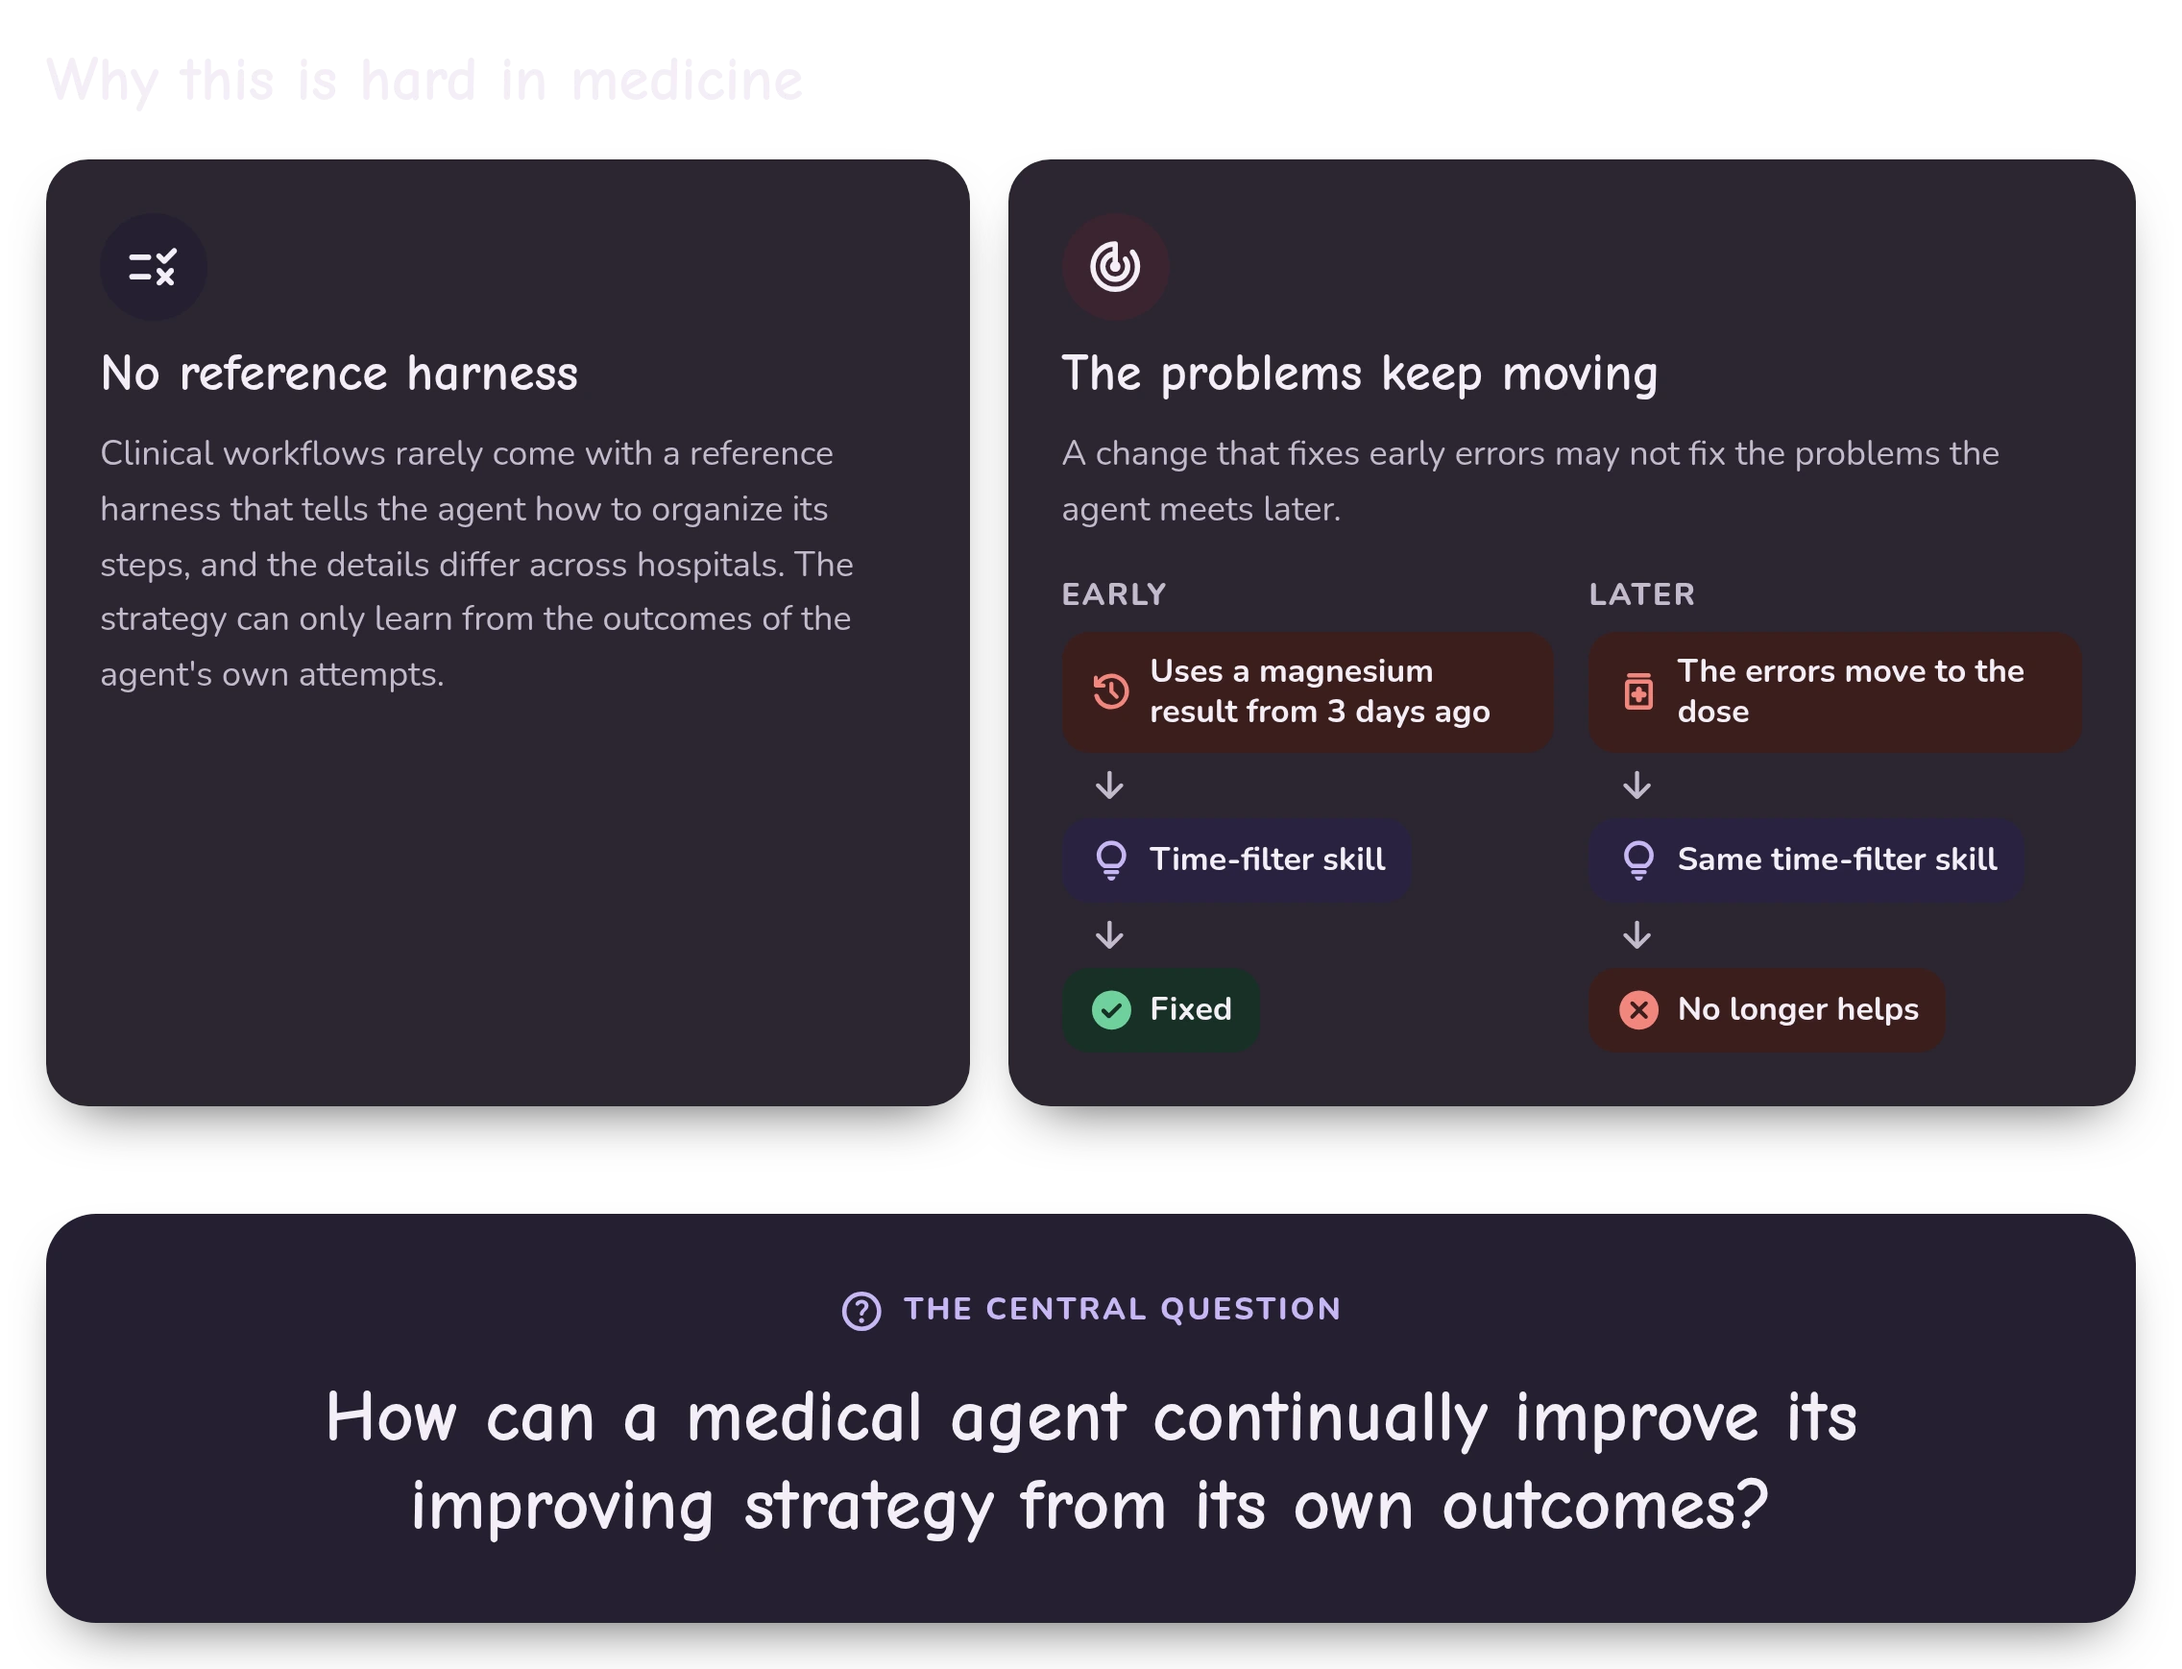
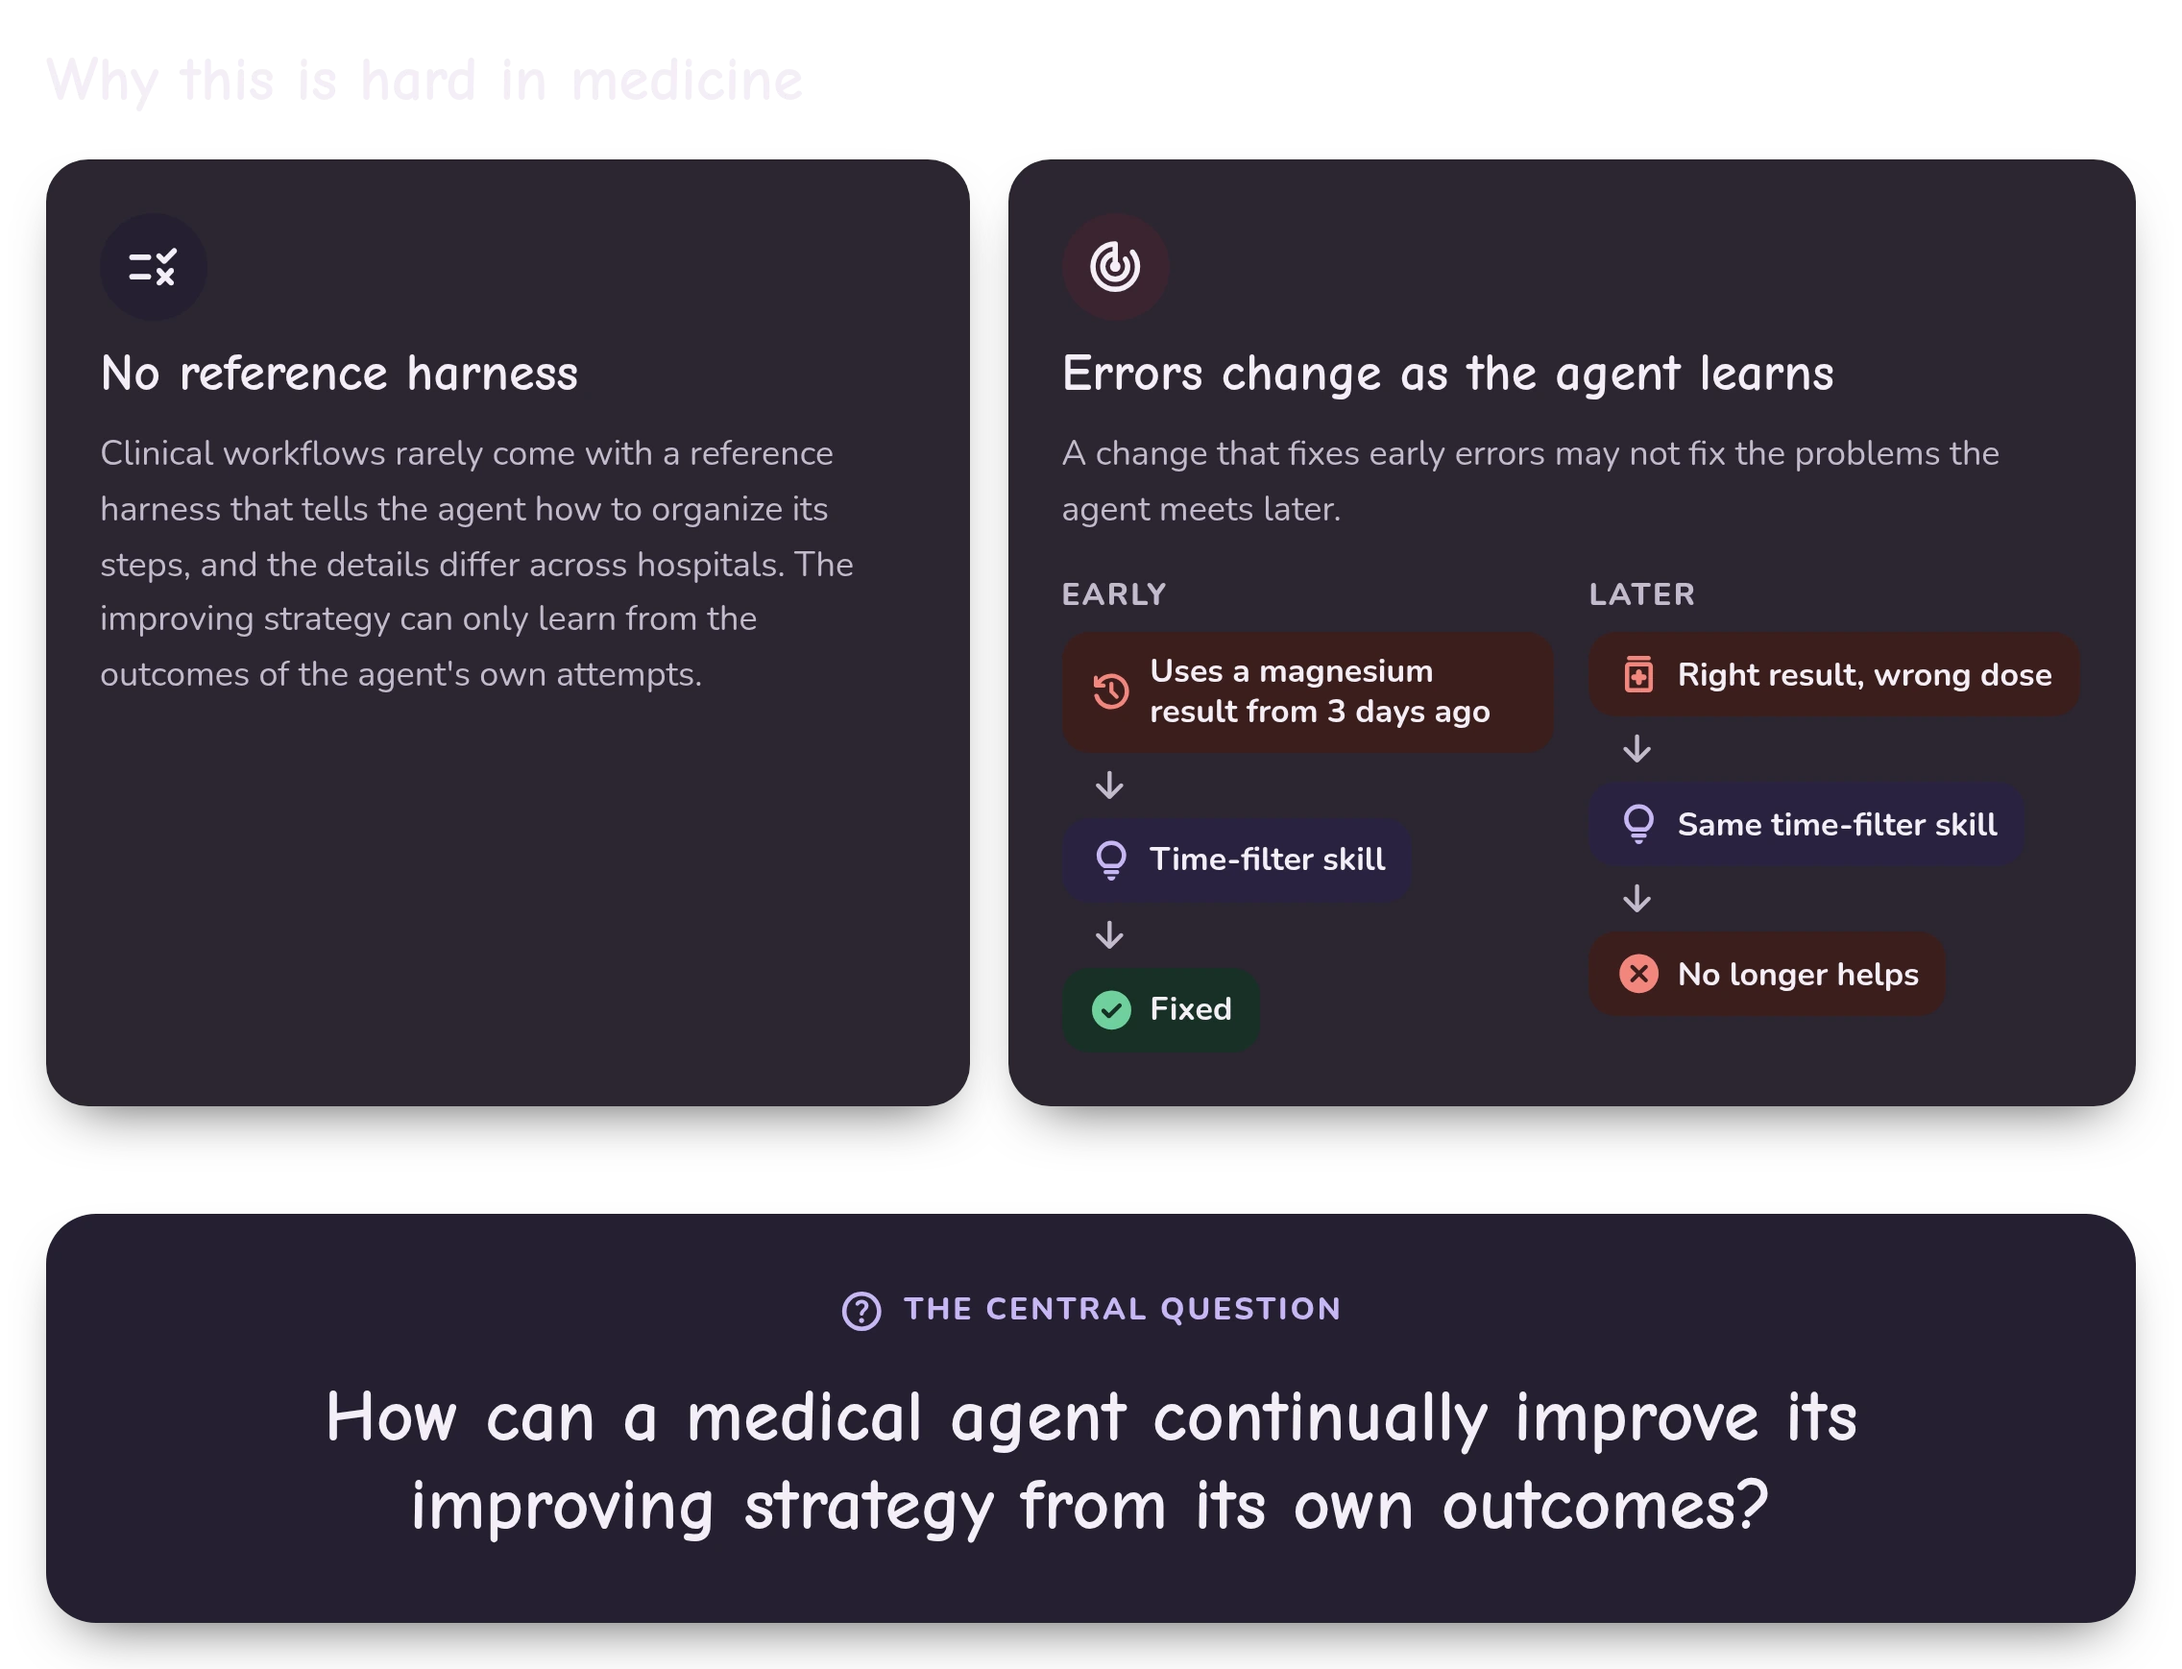
update

diff --git a/docs/index.html b/docs/index.html
@@ -643,11 +643,11 @@ footer a { font-weight: 800; text-decoration: none; display: inline-flex; align-
       <article class="pcard">
         <div class="top"><span class="icon-disc" style="--c:var(--question)"><span class="ms" aria-hidden="true">rule</span></span></div>
         <h3>No reference harness</h3>
-        <p>Clinical workflows rarely come with a reference harness that tells the agent how to organize its steps, and the details differ across hospitals. The strategy can only learn from the outcomes of the agent's own attempts.</p>
+        <p>Clinical workflows rarely come with a reference harness that tells the agent how to organize its steps, and the details differ across hospitals. The improving strategy can only learn from the outcomes of the agent's own attempts.</p>
       </article>
       <article class="pcard">
         <div class="top"><span class="icon-disc" style="--c:var(--rose-soft)"><span class="ms" aria-hidden="true">track_changes</span></span></div>
-        <h3>The problems keep moving</h3>
+        <h3>Errors change as the agent learns</h3>
         <p>A change that fixes early errors may not fix the problems the agent meets later.</p>
         <div class="story">
           <div class="story-col">
@@ -660,7 +660,7 @@ footer a { font-weight: 800; text-decoration: none; display: inline-flex; align-
           </div>
           <div class="story-col">
             <span class="when">Later</span>
-            <span class="pill bad"><span class="ms" aria-hidden="true">medication</span>The errors move to the dose</span>
+            <span class="pill bad"><span class="ms" aria-hidden="true">medication</span>Right result, wrong dose</span>
             <span class="ms down" aria-hidden="true">arrow_downward</span>
             <span class="pill imp"><span class="ms" aria-hidden="true">lightbulb</span>Same time-filter skill</span>
             <span class="ms down" aria-hidden="true">arrow_downward</span>
@@ -837,7 +837,7 @@ footer a { font-weight: 800; text-decoration: none; display: inline-flex; align-
         </div>
 
         <!-- 8 -->
-        <div class="scene" data-title="The problems move, and the Improver adapts" data-text="Once the agent filters results correctly, its errors move to the dose. Trained on the latest failures, the Improver writes the change that the Solver now needs." data-dur="8000" data-label="Adapt">
+        <div class="scene" data-title="The agent learns, and the Improver adapts" data-text="Once the agent filters results correctly, it retrieves the correct result but selects the wrong dose. Trained on the latest failures, the Improver writes the change that the Solver now needs." data-dur="8000" data-label="Adapt">
           <div class="s-two">
             <div class="round a" style="--i:0">
               <span class="round-tag">Earlier round</span>
@@ -850,7 +850,7 @@ footer a { font-weight: 800; text-decoration: none; display: inline-flex; align-
               <span class="pill bad"><span class="ms fill" aria-hidden="true">cancel</span>The time filter no longer helps</span>
             </div>
           </div>
-          <div class="revise a" style="--i:2.2"><span class="ms" aria-hidden="true">edit_note</span>The Improver revises the stored skill<span class="newline">+ Steps · match the dose to how low the value is</span></div>
+          <div class="revise a" style="--i:2.2"><span class="ms" aria-hidden="true">edit_note</span>The Improver revises the stored skill<span class="newline">+ Steps · base the dose on the magnesium level</span></div>
         </div>
 
         <!-- 9 -->

diff --git a/README.md b/README.md
@@ -18,7 +18,7 @@
 </p>
 
 <p align="center">
-  <a href="https://real-lab-nu.github.io/MedicalRSI/#demo"><img src="docs/assets/readme/demo.webp" width="100%" alt="One round of MedicalRSI in nine steps: a clinical workflow arrives, the Solver tries every patient, failures become evidence, the Improver writes candidate harnesses, the Solver tries each candidate, each harness earns its gain, one update trains both roles, the Improver adapts as the problems move, and at test time a new workflow is fixed from a few failures."></a>
+  <a href="https://real-lab-nu.github.io/MedicalRSI/#demo"><img src="docs/assets/readme/demo.webp" width="100%" alt="One round of MedicalRSI in nine steps: a clinical workflow arrives, the Solver tries every patient, failures become evidence, the Improver writes candidate harnesses, the Solver tries each candidate, each harness earns its gain, one update trains both roles, the Improver adapts as the agent learns, and at test time a new workflow is fixed from a few failures."></a>
 </p>
 
 <p align="center">
@@ -40,7 +40,7 @@
 <p align="center">
   <picture>
     <source media="(prefers-color-scheme: dark)" srcset="docs/assets/readme/hard_dark.webp">
-    <img src="docs/assets/readme/hard_light.webp" width="100%" alt="Why this is hard in medicine: no reference harness, and the problems keep moving. The central question: how can a medical agent continually improve its improving strategy from its own outcomes?">
+    <img src="docs/assets/readme/hard_light.webp" width="100%" alt="Why this is hard in medicine: no reference harness, and errors change as the agent learns. The central question: how can a medical agent continually improve its improving strategy from its own outcomes?">
   </picture>
 </p>
 
